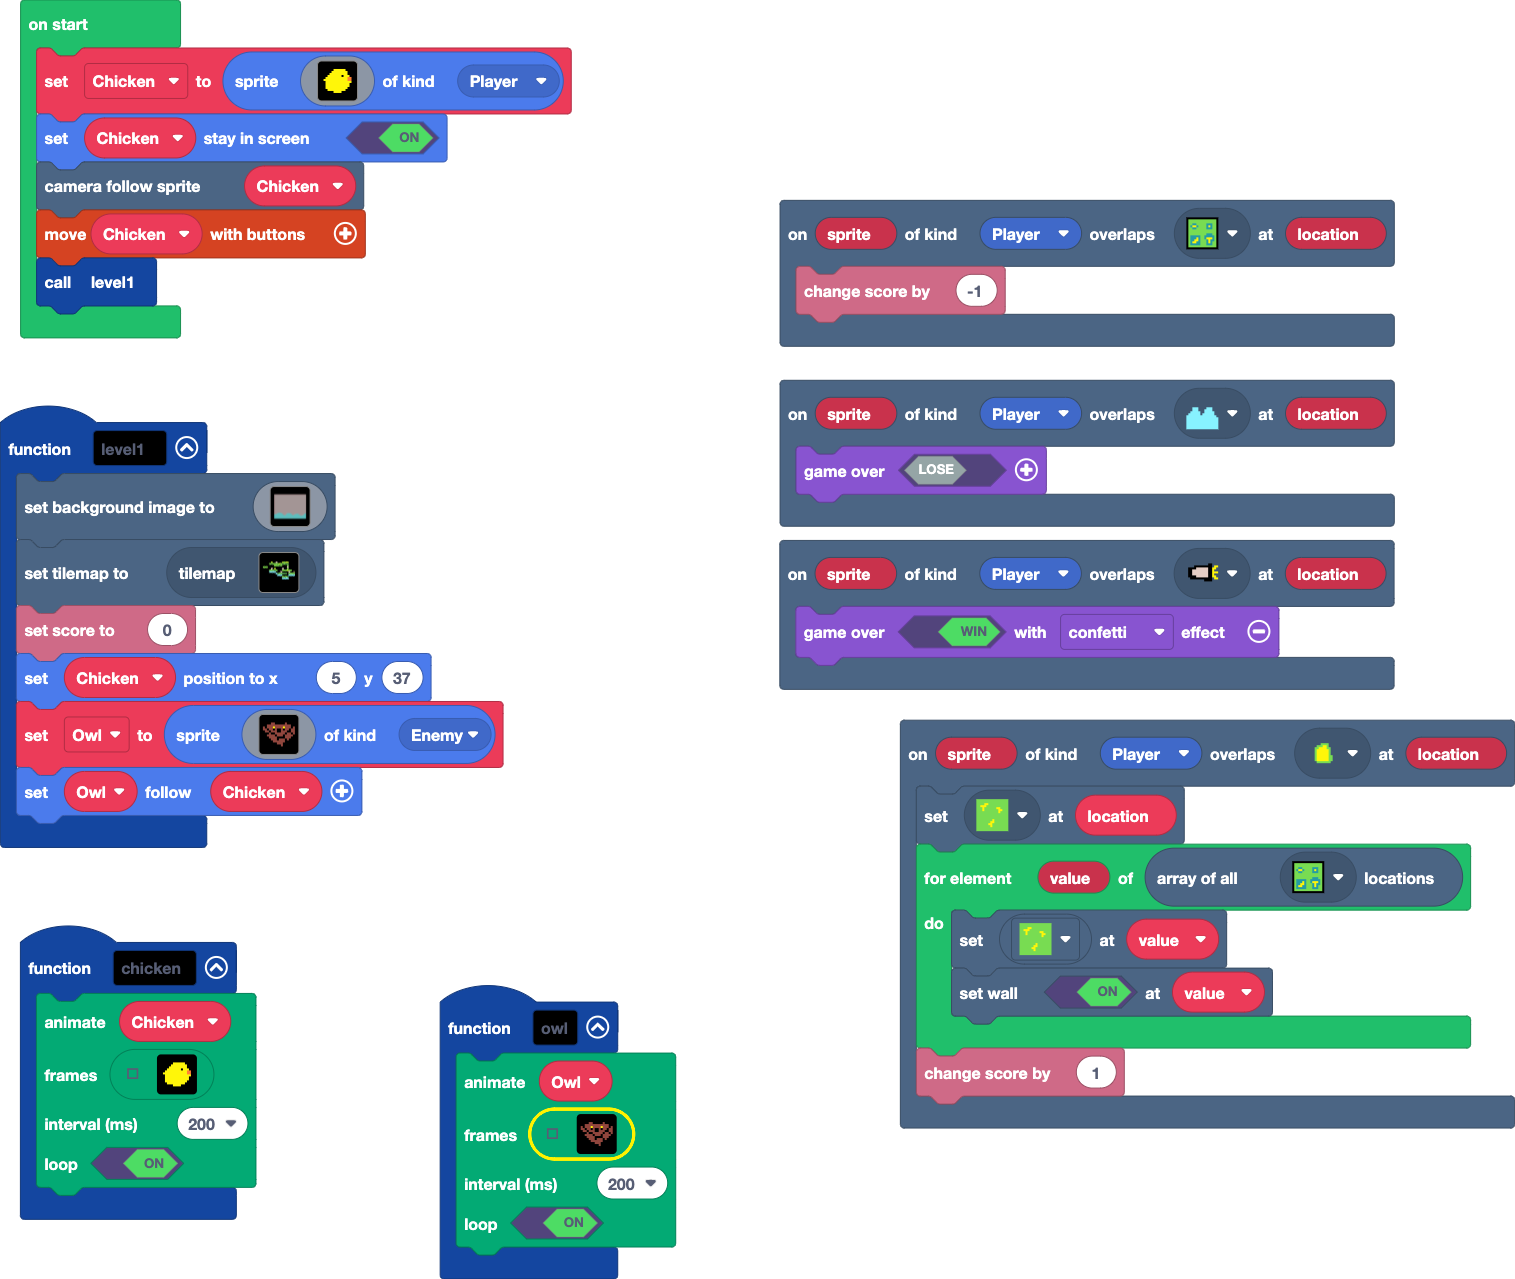
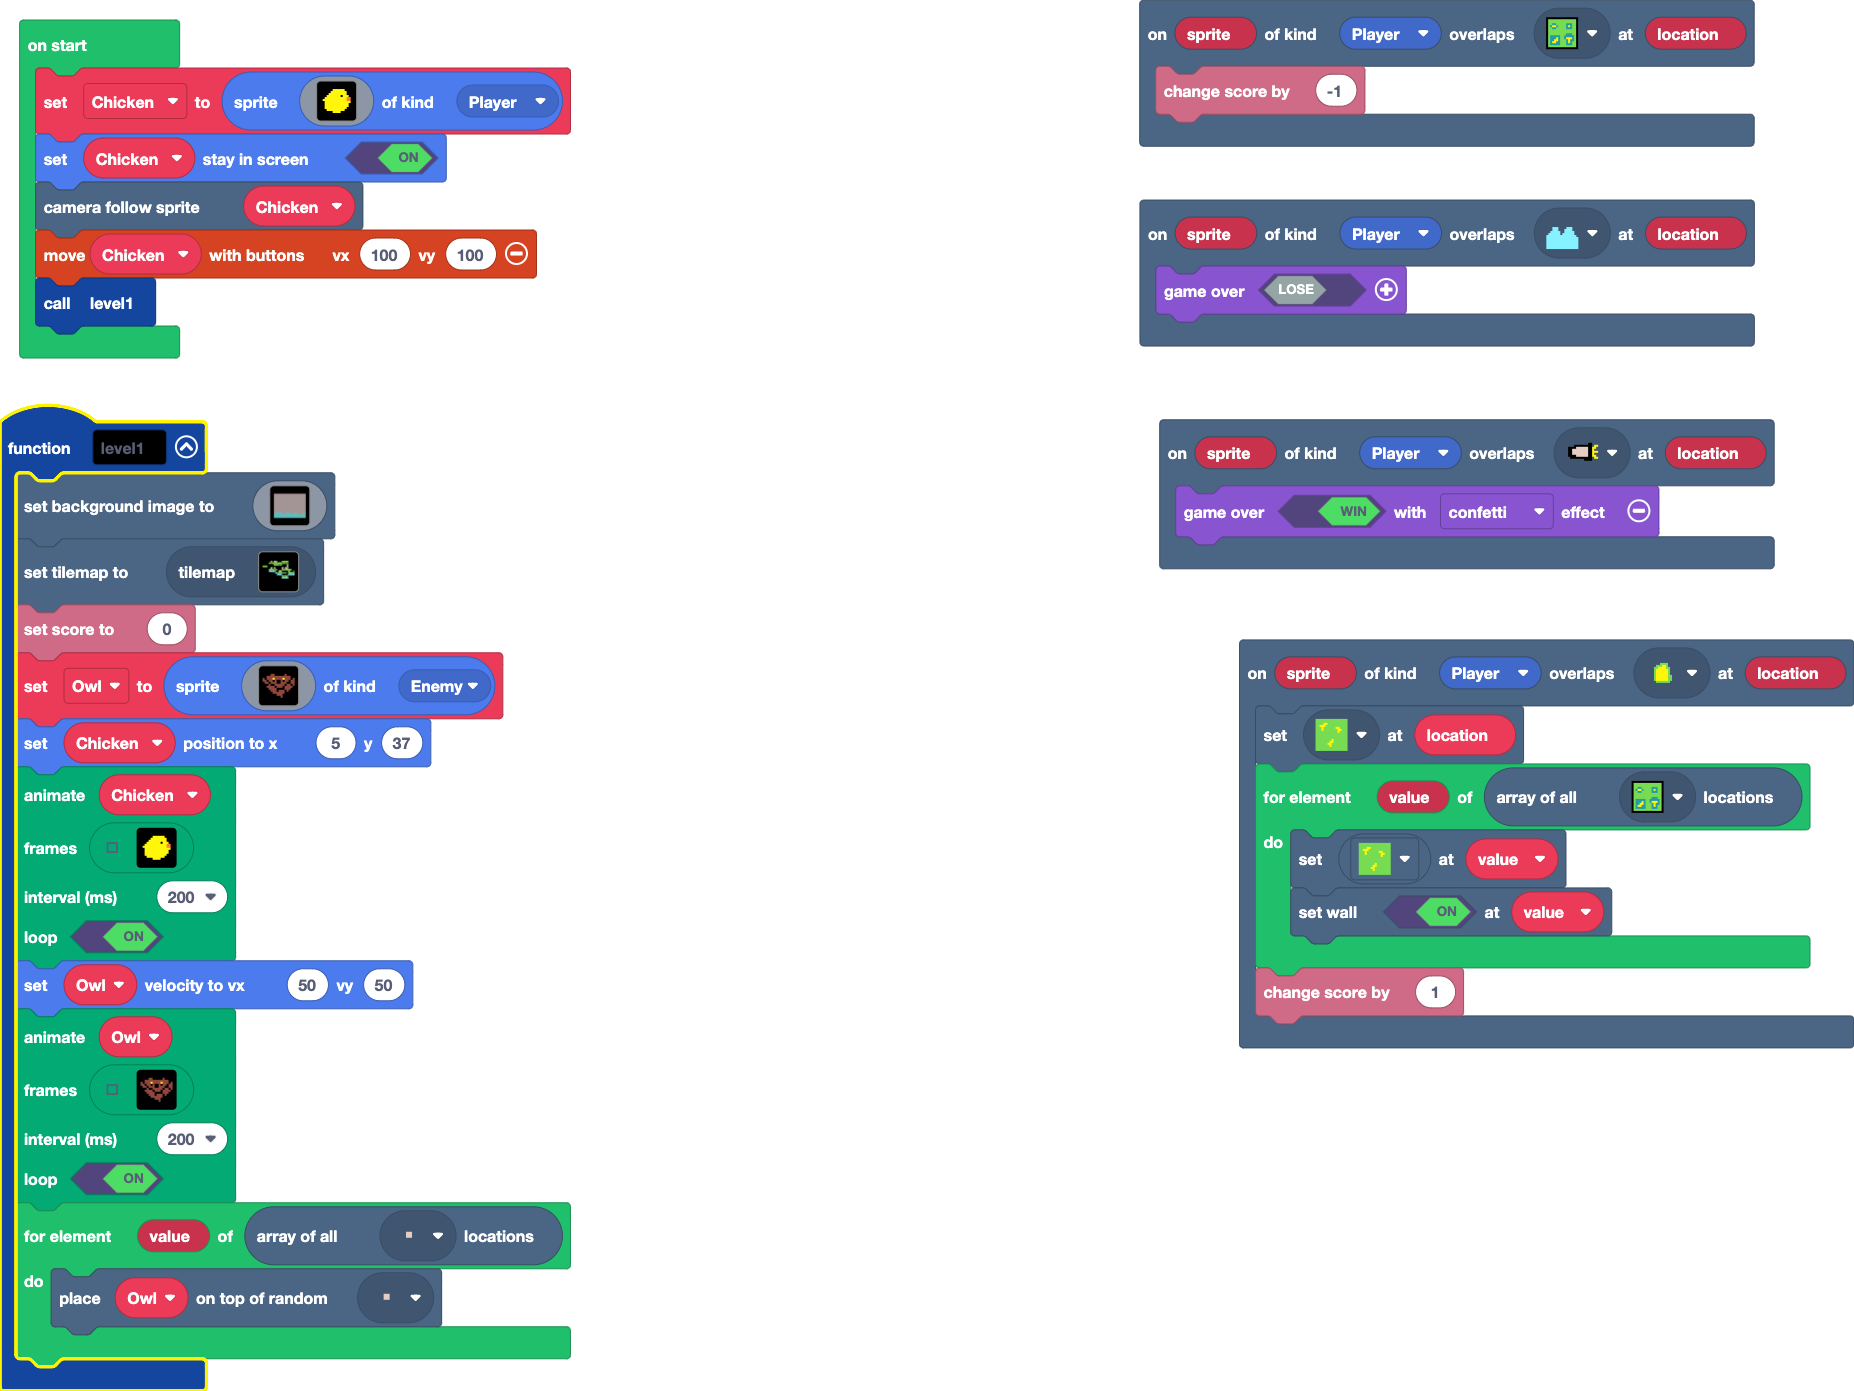
Update main.blocks, main.ts, tilemap.g.jres, tilemap.g.ts

diff --git a/main.ts b/main.ts
@@ -4,48 +4,6 @@ scene.onOverlapTile(SpriteKind.Player, assets.tile`myTile0`, function (sprite, l
 scene.onOverlapTile(SpriteKind.Player, assets.tile`myTile1`, function (sprite, location) {
     game.over(true, effects.confetti)
 })
-function chicken () {
-    animation.runImageAnimation(
-    Chicken,
-    [img`
-        . . . . . . . . . . . . . . . . 
-        . . . . . . . . . . . . . . . . 
-        . . . . . . 5 5 5 5 5 5 . . . . 
-        . . . . . 5 5 5 5 5 5 5 5 . . . 
-        . . . . 5 5 5 5 5 5 5 5 5 . . . 
-        . . . 5 5 5 5 5 5 5 f 5 5 5 . . 
-        . . 5 5 5 5 5 5 5 5 5 5 5 4 4 . 
-        . 5 5 5 5 5 5 5 5 5 5 5 5 4 4 . 
-        . . 5 5 5 5 5 5 5 5 5 5 5 5 5 . 
-        . . 5 5 5 5 5 5 5 5 5 5 5 5 . . 
-        . . 5 5 5 5 5 5 5 5 5 5 5 5 . . 
-        . . 5 5 5 5 5 5 5 5 5 5 5 . . . 
-        . . . 5 5 5 5 5 5 5 5 5 . . . . 
-        . . . . . . 5 5 5 5 . . . . . . 
-        . . . . . . . . . . . . . . . . 
-        . . . . . . . . . . . . . . . . 
-        `,img`
-        . . . . . . . . . . . . . . . . 
-        . . . . . . . . . . . . . . . . 
-        . . 5 5 . . 5 5 5 5 5 5 . . . . 
-        . . 5 5 5 5 5 5 5 5 5 5 5 . . . 
-        . . 5 5 5 5 5 5 5 5 5 5 5 . . . 
-        . . . 5 5 5 5 5 5 5 f 5 5 5 . . 
-        . . 5 5 5 5 5 5 5 5 5 5 5 4 4 . 
-        . 5 5 5 5 5 5 5 5 5 5 5 5 4 4 . 
-        . . 5 5 5 5 5 5 5 5 5 5 5 5 5 . 
-        . . 5 5 5 5 5 5 5 5 5 5 5 5 . . 
-        . . 5 5 5 5 5 5 5 5 5 5 5 5 . . 
-        . . 5 5 5 5 5 5 5 5 5 5 5 . . . 
-        . . . 5 5 5 5 5 5 5 5 5 . . . . 
-        . . . . . . 5 5 5 5 5 5 5 . . . 
-        . . . . . . . . . . . 5 5 . . . 
-        . . . . . . . . . . . . . . . . 
-        `],
-    200,
-    true
-    )
-}
 function level1 () {
     scene.setBackgroundImage(img`
         dddddddddddddddddddddddddddddddddddddddddddddddddddddddddddddddddddddddddddddddddddddddddddddddddddddddddddddddddddddddddddddddddddddddddddddddddddddddddddddddd
@@ -171,7 +129,6 @@ function level1 () {
         `)
     tiles.setCurrentTilemap(tilemap`level1`)
     info.setScore(0)
-    Chicken.setPosition(5, 37)
     Owl = sprites.create(img`
         . . . . . . . . . . . . . . . . 
         . . . . f f f . . . f f . . . . 
@@ -190,20 +147,48 @@ function level1 () {
         . . . . . . . . f f f . . . . . 
         . . . . . . . . . . . . . . . . 
         `, SpriteKind.Enemy)
-    Owl.follow(Chicken)
-}
-scene.onOverlapTile(SpriteKind.Player, assets.tile`myTile`, function (sprite, location) {
-    info.changeScoreBy(-1)
-})
-scene.onOverlapTile(SpriteKind.Player, assets.tile`myTile3`, function (sprite, location) {
-    tiles.setTileAt(location, assets.tile`myTile2`)
-    for (let value of tiles.getTilesByType(assets.tile`myTile`)) {
-        tiles.setTileAt(value, assets.tile`myTile2`)
-        tiles.setWallAt(value, true)
-    }
-    info.changeScoreBy(1)
-})
-function owl () {
+    Chicken.setPosition(5, 37)
+    animation.runImageAnimation(
+    Chicken,
+    [img`
+        . . . . . . . . . . . . . . . . 
+        . . . . . . . . . . . . . . . . 
+        . . . . . . 5 5 5 5 5 5 . . . . 
+        . . . . . 5 5 5 5 5 5 5 5 . . . 
+        . . . . 5 5 5 5 5 5 5 5 5 . . . 
+        . . . 5 5 5 5 5 5 5 f 5 5 5 . . 
+        . . 5 5 5 5 5 5 5 5 5 5 5 4 4 . 
+        . 5 5 5 5 5 5 5 5 5 5 5 5 4 4 . 
+        . . 5 5 5 5 5 5 5 5 5 5 5 5 5 . 
+        . . 5 5 5 5 5 5 5 5 5 5 5 5 . . 
+        . . 5 5 5 5 5 5 5 5 5 5 5 5 . . 
+        . . 5 5 5 5 5 5 5 5 5 5 5 . . . 
+        . . . 5 5 5 5 5 5 5 5 5 . . . . 
+        . . . . . . 5 5 5 5 . . . . . . 
+        . . . . . . . . . . . . . . . . 
+        . . . . . . . . . . . . . . . . 
+        `,img`
+        . . . . . . . . . . . . . . . . 
+        . . . . . . . . . . . . . . . . 
+        . . 5 5 . . 5 5 5 5 5 5 . . . . 
+        . . 5 5 5 5 5 5 5 5 5 5 5 . . . 
+        . . 5 5 5 5 5 5 5 5 5 5 5 . . . 
+        . . . 5 5 5 5 5 5 5 f 5 5 5 . . 
+        . . 5 5 5 5 5 5 5 5 5 5 5 4 4 . 
+        . 5 5 5 5 5 5 5 5 5 5 5 5 4 4 . 
+        . . 5 5 5 5 5 5 5 5 5 5 5 5 5 . 
+        . . 5 5 5 5 5 5 5 5 5 5 5 5 . . 
+        . . 5 5 5 5 5 5 5 5 5 5 5 5 . . 
+        . . 5 5 5 5 5 5 5 5 5 5 5 . . . 
+        . . . 5 5 5 5 5 5 5 5 5 . . . . 
+        . . . . . . 5 5 5 5 5 5 5 . . . 
+        . . . . . . . . . . . 5 5 . . . 
+        . . . . . . . . . . . . . . . . 
+        `],
+    200,
+    true
+    )
+    Owl.setVelocity(50, 50)
     animation.runImageAnimation(
     Owl,
     [img`
@@ -244,7 +229,21 @@ function owl () {
     200,
     true
     )
+    for (let value of tiles.getTilesByType(assets.tile`myTile4`)) {
+        tiles.placeOnRandomTile(Owl, assets.tile`myTile4`)
+    }
 }
+scene.onOverlapTile(SpriteKind.Player, assets.tile`myTile`, function (sprite, location) {
+    info.changeScoreBy(-1)
+})
+scene.onOverlapTile(SpriteKind.Player, assets.tile`myTile3`, function (sprite, location) {
+    tiles.setTileAt(location, assets.tile`myTile2`)
+    for (let value of tiles.getTilesByType(assets.tile`myTile`)) {
+        tiles.setTileAt(value, assets.tile`myTile2`)
+        tiles.setWallAt(value, true)
+    }
+    info.changeScoreBy(1)
+})
 let Owl: Sprite = null
 let Chicken: Sprite = null
 Chicken = sprites.create(img`
@@ -267,5 +266,5 @@ Chicken = sprites.create(img`
     `, SpriteKind.Player)
 Chicken.setStayInScreen(true)
 scene.cameraFollowSprite(Chicken)
-controller.moveSprite(Chicken)
+controller.moveSprite(Chicken, 100, 100)
 level1()

diff --git a/tilemap.g.ts b/tilemap.g.ts
@@ -18,7 +18,7 @@ namespace myTiles {
     helpers._registerFactory("tilemap", function(name: string) {
         switch(helpers.stringTrim(name)) {
             case "level1":
[2 lines of base64/hex data omitted]
 . . . . . . . . . . . . . . . . . . . . 
 . . . . . . . . . . . 2 . 2 . . . . . . 
 . . . . . . . 2 2 2 . . . . . . . . . . 
